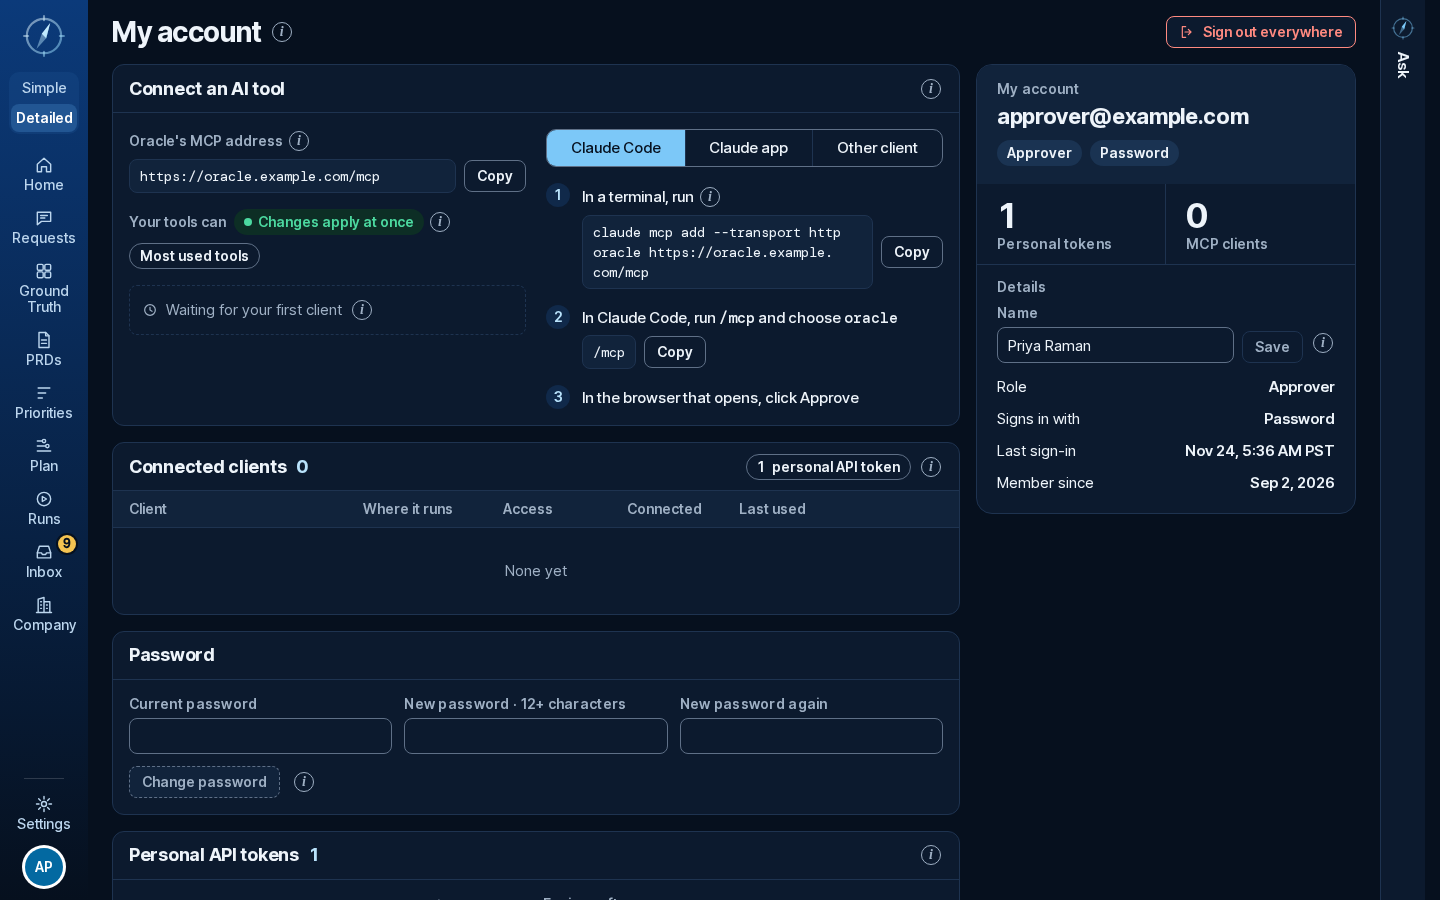
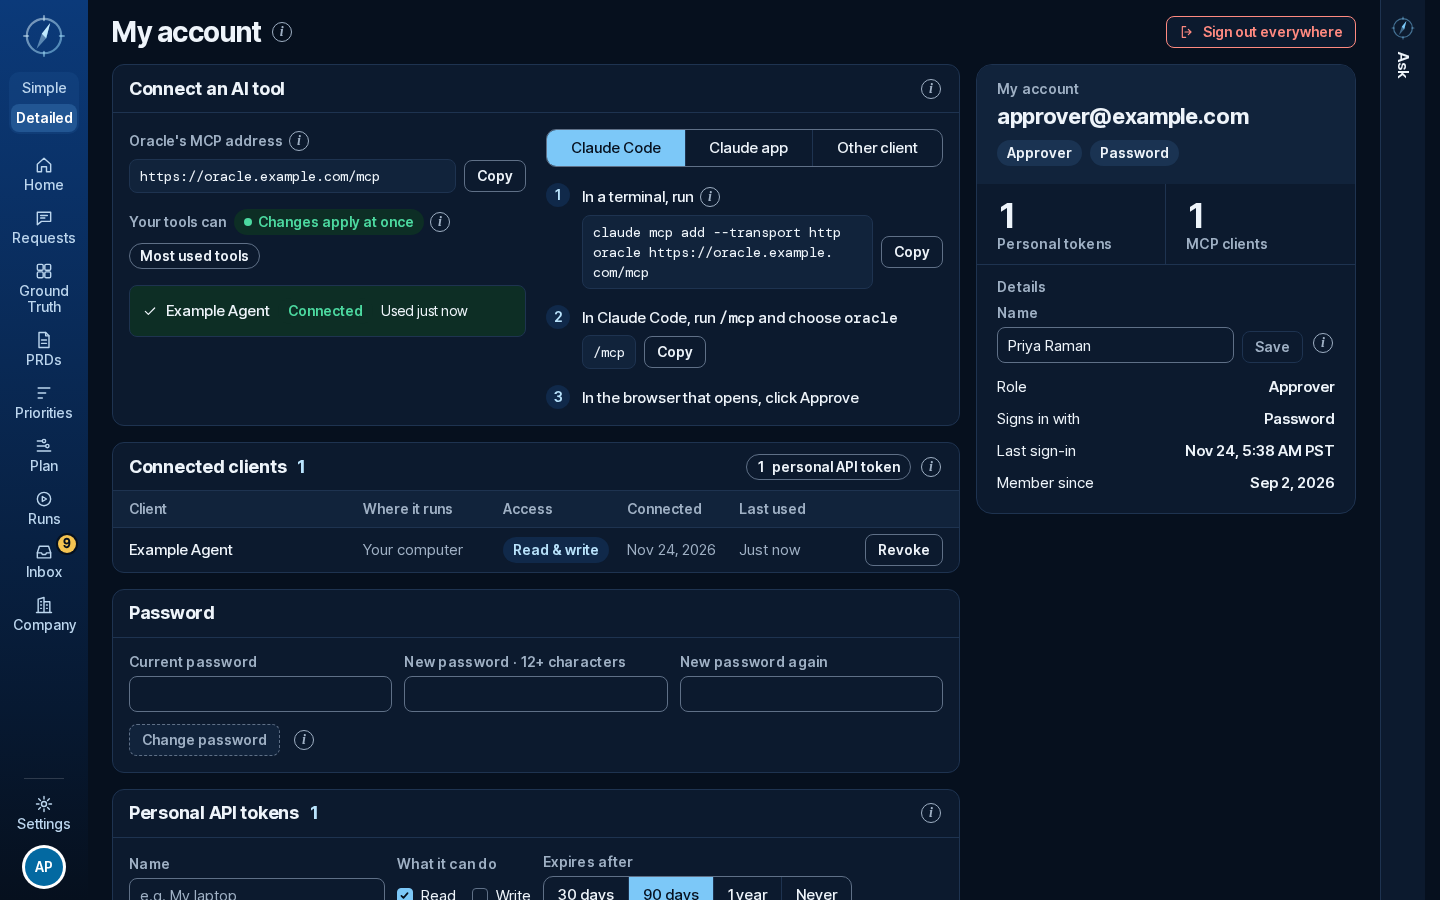
compare-out: Connect an AI tool findings and summary

diff --git a/compare-out/mcp-connect/summary.md b/compare-out/mcp-connect/summary.md
@@ -1,0 +1,40 @@
+# Connect an AI tool: built vs picked (proposal a of MC1, MC2, MC3)
+
+Built from main 4d6b9d0956 (mock app, `npm run build:mock`, served by `vite preview --mode mock`). 22 frames, 22 built shots: 5 match, 17 differ (all minor). Shots: `shots/<frame>__picked|built__<theme>.png`.
+
+## Frames
+
+- mc1-a-rest (light): match
+- mc1-a-simple-menu (light): differs (minor). The account menu and its 'Connect an AI tool' item match. Behind it, Simple Home's goal cards read 'Weight 37%' and 'Now 9.4% · target 12%' with 'On track', where the frame reads '37% of the score', 'From 11.2% · now 9.4% · target 12%' and 'Planned' (not part of this feature).
+- mc1-a-open (light): differs (minor). Step 2 sets '/mcp' and 'oracle' in code (monospace) type in 'In Claude Code, run /mcp and choose oracle'; the picked frame has the whole sentence in plain text.
+- mc1-a-open (dark): differs (minor). Step 2 sets '/mcp' and 'oracle' in code (monospace) type in 'In Claude Code, run /mcp and choose oracle'; the picked frame has the whole sentence in plain text.
+- mc1-a-open-390 (light): differs (minor). On the phone, 'Changes apply at once' sits on the same line as 'Your tools can' and the address fits on one line; in the picked frame the chip is on its own line under the label and the address wraps (the frame was drawn with a desktop scrollbar, so it may be 15px narrower). Step 2 sets '/mcp' and 'oracle' in code (monospace) type in 'In Claude Code, run /mcp and choose oracle'; the picked frame has the whole sentence in plain text.
+- mc1-a-company-1512 (light): match
+- mc2-a-app (light): match
+- mc2-a-copied (light): differs (minor). 'Copied' and the waiting check strip match. Step 2 sets '/mcp' and 'oracle' in code (monospace) type in 'In Claude Code, run /mcp and choose oracle'; the picked frame has the whole sentence in plain text.
+- mc2-a-copied-390 (light): differs (minor). On the phone, 'Changes apply at once' sits on the same line as 'Your tools can' and the address fits on one line; in the picked frame the chip is on its own line under the label and the address wraps (the frame was drawn with a desktop scrollbar, so it may be 15px narrower). Step 2 sets '/mcp' and 'oracle' in code (monospace) type in 'In Claude Code, run /mcp and choose oracle'; the picked frame has the whole sentence in plain text.
+- mc2-a-done (light): differs (minor). The connected strip, the row and the MCP clients count match. Step 2 sets '/mcp' and 'oracle' in code (monospace) type in 'In Claude Code, run /mcp and choose oracle'; the picked frame has the whole sentence in plain text.
+- mc2-a-done (dark): differs (minor). The connected strip, the row and the MCP clients count match. Step 2 sets '/mcp' and 'oracle' in code (monospace) type in 'In Claude Code, run /mcp and choose oracle'; the picked frame has the whole sentence in plain text.
+- mc2-a-late (light): differs (minor). The 'Sign-in timed out' strip with '/mcp' and Copy matches. Step 2 sets '/mcp' and 'oracle' in code (monospace) type in 'In Claude Code, run /mcp and choose oracle'; the picked frame has the whole sentence in plain text.
+- mc2-a-viewer-1512 (light): differs (minor). The Read only tip drops the frame's opening words 'Your role is Viewer:'; the built tip starts 'A connected tool reads goals, the roadmap and documents...'.
+- mc2-a-commenter-1512 (light): differs (minor). 'Changes become proposals' and the newest client in the strip match. Step 2 sets '/mcp' and 'oracle' in code (monospace) type in 'In Claude Code, run /mcp and choose oracle'; the picked frame has the whole sentence in plain text. The mock could only list 4 clients, all named Example Agent (the seeded Cursor client has expired), so the frame's long names were not shown.
+- mc3-a-rest (light): differs (minor). One client, Your computer, Read & write, Just now, with Revoke: matches. Step 2 sets '/mcp' and 'oracle' in code (monospace) type in 'In Claude Code, run /mcp and choose oracle'; the picked frame has the whole sentence in plain text.
+- mc3-a-five-1512 (light): differs (minor). The table's columns, Read & write chips and Revoke match. The mock could only make 3 clients, all named Example Agent (the seeded Claude Desktop has expired), so the frame's long shared-machine name wrapping in full could not be checked. Step 2 sets '/mcp' and 'oracle' in code (monospace) type in 'In Claude Code, run /mcp and choose oracle'; the picked frame has the whole sentence in plain text.
+- mc3-a-five (dark): differs (minor). Same as at 1512: only 3 Example Agent clients could be made, so the long-name wrap was not checked. Step 2 sets '/mcp' and 'oracle' in code (monospace) type in 'In Claude Code, run /mcp and choose oracle'; the picked frame has the whole sentence in plain text.
+- mc3-a-five-390 (light): differs (minor). Each row's second line reads 'Used Just now' with a capital J; the frame's rows read 'Used 3 h ago', 'Used 4 min ago' in lower case. The long-name wrap was not checked (only 3 Example Agent clients). Step 2 sets '/mcp' and 'oracle' in code (monospace) type in 'In Claude Code, run /mcp and choose oracle'; the picked frame has the whole sentence in plain text.
+- mc3-a-revoke (light): differs (minor). The confirm's title, client name, two lines and buttons match, but Cancel shows no focus ring after the mouse click that opened it; the frame shows Cancel focused with a ring.
+- mc3-a-revoked (light): differs (minor). The empty list, the waiting strip and the 0 MCP clients count match. Step 2 sets '/mcp' and 'oracle' in code (monospace) type in 'In Claude Code, run /mcp and choose oracle'; the picked frame has the whole sentence in plain text.
+- mc3-a-consent (light): match
+- mc3-a-company-1512 (light): match
+
+## The differences that repeat
+
+- 15 frames: step 2 of the Claude Code tab sets '/mcp' and 'oracle' in code type; the frames have plain text.
+- Viewer tip drops 'Your role is Viewer:'. Phone rows say 'Used Just now' with a capital J. The revoke confirm's Cancel has no focus ring after a mouse click.
+
+## States not fully reached, and why
+
+- The live browser crashed early in the run, and the gate said it could not start it again for this attempt. So the built shots come from the repo's own pinned Chromium (`swarm-test-browsers`), through a throwaway capture spec that was never committed. That spec drives the UI as a person would: sign in, open the account menu, click Connect an AI tool, Copy, switch tabs, Approve in a second tab, Revoke, then confirm. With it, the 1512 frames were taken at their PNG's own size, 1512x982.
+- Five clients with a long name (mc3-a-five-*, mc2-a-commenter-1512): the mock's consent screen always approves 'Example Agent'. Also, the seeded clients (Claude Desktop, Cursor) expired before today's date (Nov 24, 2026). So the owner showed 3 clients and the commenter 4, all with the same short name, and the long-name wrap was not checked.
+- mc2-a-late: the five-minute timeout was reached with Playwright's fake clock, not by waiting in real time.
+- People: the frames sign in as Avery Stone (owner). The empty and first-connection states (mc1, mc2 except the viewer and commenter frames, and mc3-a-rest, revoke and revoked) were taken as the mock approver, Priya Raman, who has no clients. The mock owner has seeded clients, so the empty list could not be shown as the owner. The access chip reads the same for both: 'Changes apply at once'.
